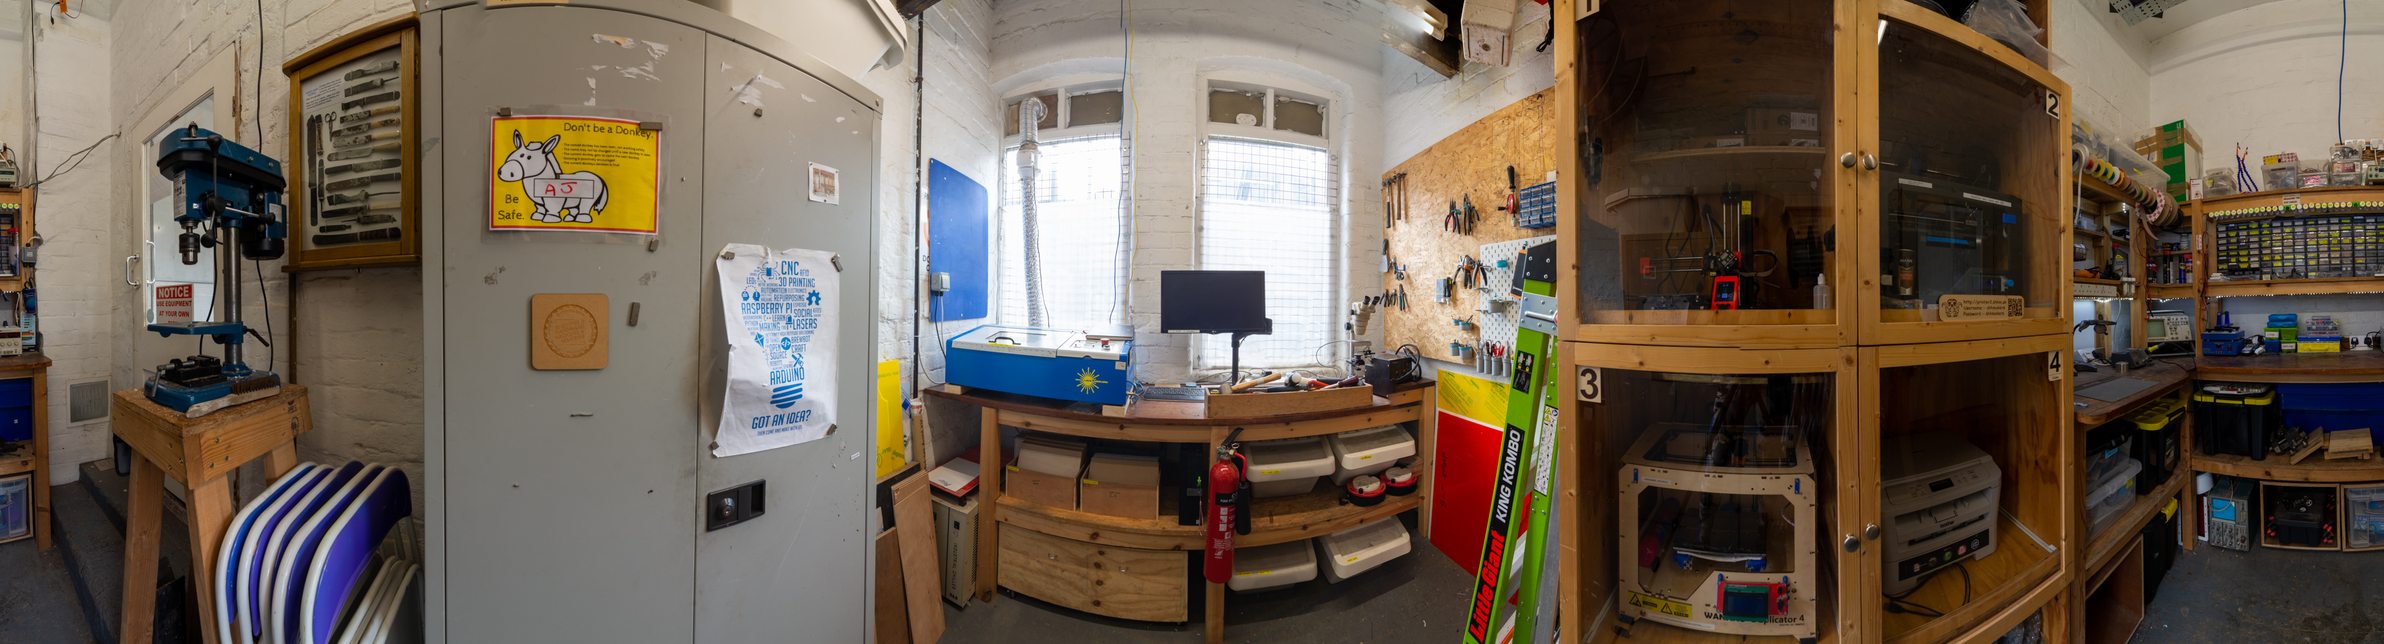
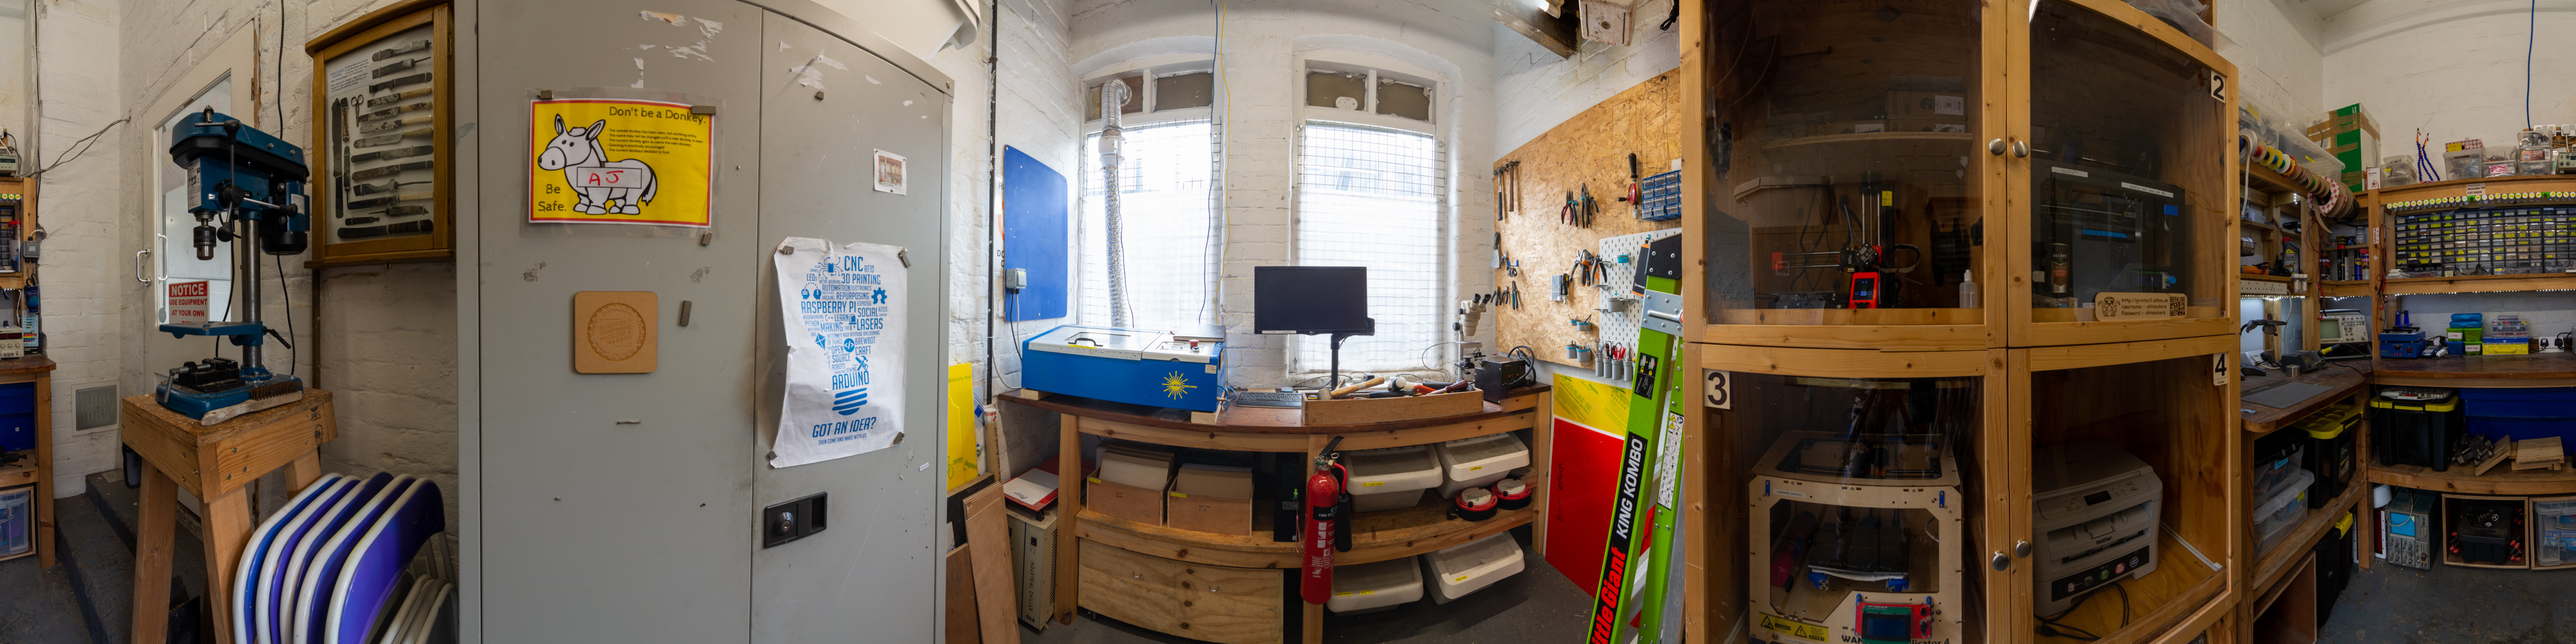
add scrolling

diff --git a/_sass/custom.scss b/_sass/custom.scss
@@ -1,3 +1,4 @@
+/* Responsive iFrame */
 @media (max-width: 550px) {
   .big-container {
 	display: none;
@@ -8,7 +9,6 @@
 	display: none;
   }
 }
-/* Responsive iFrame */
 .responsive-iframe-container {
   position: relative;
   padding-bottom: 56.25%;
@@ -26,15 +26,70 @@
   height: 100%;
 }
 
+/* Full width content */
 .full-width {
   width: 100vw;
   max-width: none;
+  margin-bottom: 1.5rem;
+
+  @media (min-width: 0em) { margin-left: -0.5rem; }
+  @media (min-width: 20em) {  margin-left: -1rem; }
+  @media (min-width: 48em) {  margin-left: -2rem; }
+  @media (min-width: 64em) {  margin-left: -3rem; }
+  @media (min-width: 80em) {  margin-left: -4rem; }
 }
 
-@media (min-width: 20em) { .full-width { margin-left: -1rem; } }
+.pano-contaner {
+  height: 100vw;
+  overflow-x: scroll;
+  overflow-y: hidden;
 
-@media (min-width: 48em) { .full-width { margin-left: -2rem; } }
+  img {
+    display: inline;
+    min-height: 100vw;
+    min-width: 4*100vw;
+  }
 
-@media (min-width: 64em) { .full-width { margin-left: -3rem; } }
+  @media (min-width: 64em) {
+    height: 60vw;
+    img {
+      min-height: 60vw;
+      min-width: 4*60vw;
+    }
+  }
 
-@media (min-width: 80em) { .full-width { margin-left: -4rem; } }
+  @media (min-width: 84em) {
+    height: 40vw;
+    img {
+      min-height: 40vw;
+      min-width: 4*40vw;
+    }
+  }
+
+  &::-webkit-scrollbar {
+    display: block;
+    width: 16px;
+    height: 16px;
+  }
+
+  &::-webkit-scrollbar-button {
+    display: none;
+  }
+
+  &::-webkit-scrollbar-track {
+    background-color: #00000000;
+  }
+
+  &::-webkit-scrollbar-track-piece {
+    background-color: #00000000;
+  }
+
+  &::-webkit-scrollbar-thumb {
+    background-color: #00000040;
+    border: 1px solid #ffffff40;
+    border-radius: 24px;
+  }
+}
+
+
+

diff --git a/_layouts/the-space.html b/_layouts/the-space.html
@@ -14,7 +14,9 @@ layout: default
 			{% for space in site.data.spaces %}
 				<div class="entry-content">
 					<h2>{{ space.name }}</h2>
-					<img class="full-width" src="{{ site.baseurl }}{{space.image}}" alt="{{ space.alt }}">
+					<div class="full-width pano-contaner">
+						<img src="{{ site.baseurl }}{{space.image}}" alt="{{ space.alt }}">
+					</div>
 					<p>{{ space.content }}</p>
 				</div>
 			{% endfor %}
